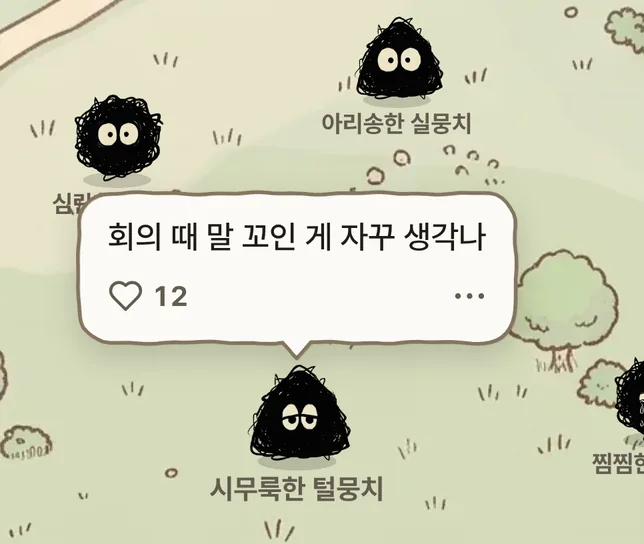
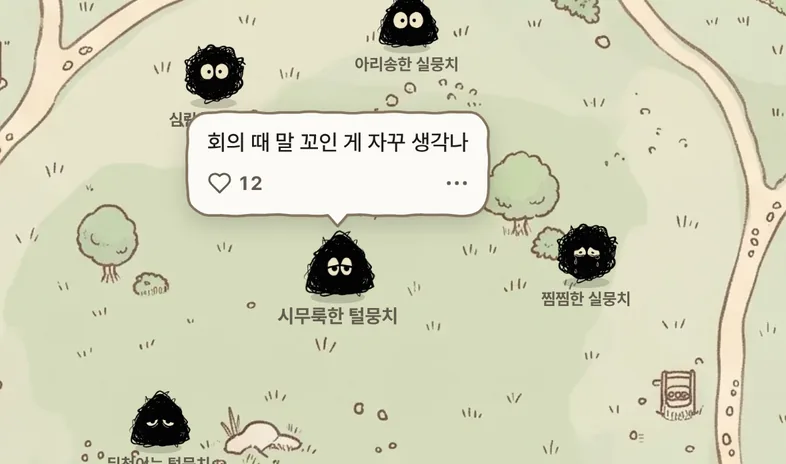
About page: heart copy, two-row scrolling chips, zoomed-out map capture, shorter threads
Claude-Session: https://claude.ai/code/session_01D81eScnbEyZeYyBQwyJoQD

diff --git a/public/index.html b/public/index.html
@@ -337,7 +337,7 @@
   .ab-tag { position: relative; margin: 0; display: inline-block; padding: 6px 11px; color: var(--ink-2); font-size: var(--t-caption-fs); font-weight: 500; line-height: var(--t-caption-lh);}
   .ab-bub { isolation: isolate}
   .ab-bub-e { position: absolute; left: 0; top: 0; z-index: -1; overflow: visible; pointer-events: none; filter: drop-shadow(0 4px 5px rgba(25,26,44,0.129))}
-  .ab-thread { display: block; margin: 16px auto; color: var(--ink); opacity: .6}
+  .ab-thread { display: block; margin: 12px auto; color: var(--ink); opacity: .6}
   .ab-big { position: relative; margin-top: 0; width: 280px; max-width: 100%; height: 150px; display: grid; place-items: center}
   .ab-big .ab-y { width: 84px}
   .ab-b { position: absolute; padding: 6px 11px; color: var(--ink-2); white-space: nowrap; font-size: var(--t-caption-fs); font-weight: 500; line-height: var(--t-caption-lh);}
@@ -370,7 +370,10 @@
   .ab-pay2 { margin-top: 2px}
   .ab-sec { margin-top: 56px; padding-top: 28px; border-top: 1px dashed var(--rule-paper)}
   .ab h2 { margin: 0 0 14px; font-size: var(--t-appbar-fs); font-weight: var(--t-appbar-fw); line-height: var(--t-appbar-lh);}
-  .ab-chips { display: flex; flex-wrap: wrap; gap: 8px}
+  .ab-chips { display: flex; flex-direction: column; gap: 8px; margin: 0 -24px; padding: 2px 24px 8px; overflow-x: auto; overscroll-behavior-x: contain; scrollbar-width: none; -webkit-overflow-scrolling: touch}
+  .ab-chips::-webkit-scrollbar { display: none}
+  .ab-row { display: flex; gap: 8px; width: max-content}
+  .ab-row span { flex: none; white-space: nowrap}
   .ab-chips span { position: relative; padding: 8px 12px; color: var(--ink-2); font-size: var(--t-btn-s-fs); font-weight: 500; line-height: var(--t-btn-s-lh);}
   .ab-list { list-style: none; margin: 0; padding: 0; display: flex; flex-direction: column; gap: 12px}
   .ab-list li { color: var(--ink-2); word-break: keep-all; font-size: var(--t-desc-fs); font-weight: var(--t-desc-fw); line-height: var(--t-desc-lh);}
@@ -655,14 +658,14 @@
         <h1>걱정은 보통<br>아주 작게 시작해요.</h1>
         <p>머릿속에서 자꾸 맴도는 작은 걱정을<br>한 발짝 떨어져서 다시 보게 해 주는 앱이에요.<br>털실 하나를 따라가면서 보여 드릴게요.</p>
       </header>
-      <svg class="ab-thread" width="24" height="32" viewBox="0 0 24 32" fill="none" aria-hidden="true"><path d="M12 2 C 20 6, 4 10, 12 15 S 4 24, 12 28 S 17 30, 13 31" stroke="currentColor" stroke-width="1.8" stroke-linecap="round"/></svg>
+      <svg class="ab-thread" width="40" height="32" viewBox="0 0 40 32" fill="none" aria-hidden="true"><path d="M20 2 C 34 6, 6 12, 20 16 S 34 26, 21 30" stroke="currentColor" stroke-width="1.8" stroke-linecap="round"/></svg>
 
       <section class="ab-ch">
         <span class="ab-k">01. 있었던 일</span>
         <p class="ab-t">처음엔 있었던 일 하나뿐이에요.</p>
         <div class="ab-fig"><div class="ab-art-tag" aria-hidden="true"><p class="ab-tag ab-bub"><svg class="ab-bub-e"></svg>친구한테 하루 동안 연락이 없네</p><div class="ab-float"><img class="ab-y" src="./ch/p-default.webp" alt="" width="67" height="65"><span class="ab-shadow"></span></div></div></div>
       </section>
-      <svg class="ab-thread" width="24" height="32" viewBox="0 0 24 32" fill="none" aria-hidden="true"><path d="M12 2 C 20 6, 4 10, 12 15 S 4 24, 12 28 S 17 30, 13 31" stroke="currentColor" stroke-width="1.8" stroke-linecap="round"/></svg>
+      <svg class="ab-thread" width="40" height="32" viewBox="0 0 40 32" fill="none" aria-hidden="true"><path d="M20 2 C 34 6, 6 12, 20 16 S 34 26, 21 30" stroke="currentColor" stroke-width="1.8" stroke-linecap="round"/></svg>
 
       <section class="ab-ch">
         <span class="ab-k">02. 엉겨 붙은 생각</span>
@@ -674,7 +677,7 @@
           <span class="ab-b ab-bub b3"><svg class="ab-bub-e"></svg>이대로 멀어지면 어떡하지</span>
         </div></div>
       </section>
-      <svg class="ab-thread" width="24" height="32" viewBox="0 0 24 32" fill="none" aria-hidden="true"><path d="M12 2 C 20 6, 4 10, 12 15 S 4 24, 12 28 S 17 30, 13 31" stroke="currentColor" stroke-width="1.8" stroke-linecap="round"/></svg>
+      <svg class="ab-thread" width="40" height="32" viewBox="0 0 40 32" fill="none" aria-hidden="true"><path d="M20 2 C 34 6, 6 12, 20 16 S 34 26, 21 30" stroke="currentColor" stroke-width="1.8" stroke-linecap="round"/></svg>
 
       <section class="ab-ch">
         <span class="ab-k">03. 털실을 뒤집어쓴 걱정</span>
@@ -682,7 +685,7 @@
         <p class="ab-s">무섭거나 슬픈 그림 대신 동글동글하게 그린 건, 걱정을 너무 무겁게 들고 있지 않았으면 해서예요.</p>
         <div class="ab-fig"><div class="ab-art" aria-hidden="true"><img class="ab-y" src="./ch/p-huddle.webp" alt="" width="72" height="71"><span class="ab-shadow"></span></div></div>
       </section>
-      <svg class="ab-thread" width="24" height="32" viewBox="0 0 24 32" fill="none" aria-hidden="true"><path d="M12 2 C 20 6, 4 10, 12 15 S 4 24, 12 28 S 17 30, 13 31" stroke="currentColor" stroke-width="1.8" stroke-linecap="round"/></svg>
+      <svg class="ab-thread" width="40" height="32" viewBox="0 0 40 32" fill="none" aria-hidden="true"><path d="M20 2 C 34 6, 6 12, 20 16 S 34 26, 21 30" stroke="currentColor" stroke-width="1.8" stroke-linecap="round"/></svg>
 
       <section class="ab-ch">
         <span class="ab-k">04. 한 발짝 떨어져 보면</span>
@@ -697,7 +700,7 @@
           </div>
         </div></div>
       </section>
-      <svg class="ab-thread" width="24" height="32" viewBox="0 0 24 32" fill="none" aria-hidden="true"><path d="M12 2 C 20 6, 4 10, 12 15 S 4 24, 12 28 S 17 30, 13 31" stroke="currentColor" stroke-width="1.8" stroke-linecap="round"/></svg>
+      <svg class="ab-thread" width="40" height="32" viewBox="0 0 40 32" fill="none" aria-hidden="true"><path d="M20 2 C 34 6, 6 12, 20 16 S 34 26, 21 30" stroke="currentColor" stroke-width="1.8" stroke-linecap="round"/></svg>
 
       <section class="ab-ch">
         <span class="ab-k">05. 구겨서 버리기</span>
@@ -710,17 +713,21 @@
       <section class="ab-sec ab-share">
         <h2>적은 고민은 어디로 갈까요?</h2>
         <p class="ab-sh-t">이름 같은 정보를 가린 채 익명으로 고민 나눔터에 놓여요. 둘러보다 보면, 다들 비슷한 걸로 맴돌고 있다는 걸 알게 돼요.</p>
-        <img class="ab-shot" src="./ch/ab-map.webp" alt="" width="322" height="272" aria-hidden="true">
-        <p class="ab-sh-s">혹시 공감 가는 고민이 있나요? 있으면 표시해 보세요. 누가 했는지는 아무도 몰라요.</p>
+        <img class="ab-shot" src="./ch/ab-map.webp" alt="" width="393" height="232" aria-hidden="true">
+        <p class="ab-sh-s">공감 가는 고민엔 하트를 눌러 주세요. 하트 수만큼 같은 생각을 한 사람이 있다는 뜻이에요. 누가 눌렀는지는 아무도 몰라요.</p>
       </section>
 
       <section class="ab-sec">
         <h2>이럴 때 꺼내 보세요</h2>
         <div class="ab-chips">
-          <span class="ab-bub"><svg class="ab-bub-e"></svg>회의 끝나고도 한마디가 맴돌 때</span>
-          <span class="ab-bub"><svg class="ab-bub-e"></svg>답장을 기다리고 있을 때</span>
-          <span class="ab-bub"><svg class="ab-bub-e"></svg>자기 전에 생각이 꼬리를 물 때</span>
-          <span class="ab-bub"><svg class="ab-bub-e"></svg>내일 일이 벌써 걱정될 때</span>
+          <div class="ab-row">
+            <span class="ab-bub"><svg class="ab-bub-e"></svg>회의 끝나고도 한마디가 맴돌 때</span>
+            <span class="ab-bub"><svg class="ab-bub-e"></svg>답장을 기다리고 있을 때</span>
+          </div>
+          <div class="ab-row">
+            <span class="ab-bub"><svg class="ab-bub-e"></svg>자기 전에 생각이 꼬리를 물 때</span>
+            <span class="ab-bub"><svg class="ab-bub-e"></svg>내일 일이 벌써 걱정될 때</span>
+          </div>
         </div>
       </section>
 
